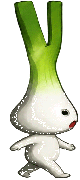
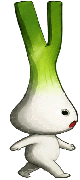
corrected leek missing pixels

diff --git a/game.py b/game.py
@@ -123,13 +123,10 @@ def update(dt):
 
     next_box_time -= dt #enemies update
 
-<<<<<<< HEAD
-=======
     for i in cat:
         x, y = cat.pos
         x -= GAME_SPEED/8 * -dt
         cat.pos = x, y
->>>>>>> cbca2bdb8c03b2b80d58a88de8ac24dc10c0c19a
 
     if next_box_time <= 0:
         box = Actor("knife", anchor=('left', 'bottom'))
